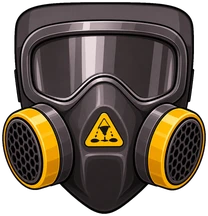
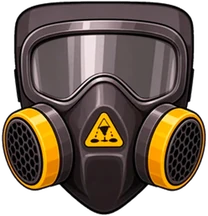
Shadows under the things (squashed from the base, slid from the light); no players strip over Пепе and the captures; the gas mask with see-through glass
Claude-Session: https://claude.ai/code/session_01XtpZhZabEYUcJEQKQgYpHe

diff --git a/src/app/screens.css b/src/app/screens.css
@@ -7639,17 +7639,18 @@ body.has-full .modal-back:not(.full):not(.page) { top: 0; }
   25% { transform: translate(530px, 1235px); opacity: 0.45; } 45% { transform: translate(300px, 1215px); opacity: 0.35; }
   50%, 55% { opacity: 0; transform: translate(260px, 1215px); } 57% { transform: translate(760px, 1215px); opacity: 0.2; }
   76% { transform: translate(530px, 1235px); opacity: 0.25; } 96% { transform: translate(300px, 1215px); opacity: 0.2; } 100% { transform: translate(260px, 1215px); opacity: 0; } }
-/* the shadows of the things: flipped down from the foot, skewed away from the light (the sun on the left → to the right),
-   long and faint low, short and dark high; the moon's are paler */
+/* the shadows of the things: the thing's own shape, black and see-through, squashed flat onto the floor from its base
+   (so it starts right under the thing) and slid away from the light — long to the right in the morning, short under it
+   at noon, long to the left in the evening; the moon's are paler */
 .fkr-shadow { animation-name: fkr-shadow; }
 @keyframes fkr-shadow {
-  0% { transform: scaleY(-0.5) skewX(-50deg); opacity: 0; }
-  5% { transform: scaleY(-0.55) skewX(-52deg); opacity: 0.42; } 15% { transform: scaleY(-0.38) skewX(-30deg); opacity: 0.5; }
-  25% { transform: scaleY(-0.26) skewX(0deg); opacity: 0.55; } 35% { transform: scaleY(-0.38) skewX(30deg); opacity: 0.5; }
-  45% { transform: scaleY(-0.55) skewX(52deg); opacity: 0.42; } 51% { transform: scaleY(-0.6) skewX(56deg); opacity: 0; }
-  54% { transform: scaleY(-0.5) skewX(-50deg); opacity: 0; } 58% { transform: scaleY(-0.5) skewX(-48deg); opacity: 0.28; }
-  76% { transform: scaleY(-0.3) skewX(0deg); opacity: 0.34; } 94% { transform: scaleY(-0.5) skewX(48deg); opacity: 0.28; }
-  100% { transform: scaleY(-0.55) skewX(52deg); opacity: 0; } }
+  0% { transform: scaleY(0.38) skewX(-60deg); opacity: 0; }
+  5% { transform: scaleY(0.38) skewX(-60deg); opacity: 0.55; } 15% { transform: scaleY(0.34) skewX(-40deg); opacity: 0.6; }
+  25% { transform: scaleY(0.28) skewX(0deg); opacity: 0.65; } 35% { transform: scaleY(0.34) skewX(40deg); opacity: 0.6; }
+  45% { transform: scaleY(0.38) skewX(60deg); opacity: 0.55; } 51% { transform: scaleY(0.4) skewX(64deg); opacity: 0; }
+  54% { transform: scaleY(0.38) skewX(-60deg); opacity: 0; } 58% { transform: scaleY(0.38) skewX(-56deg); opacity: 0.38; }
+  76% { transform: scaleY(0.3) skewX(0deg); opacity: 0.45; } 94% { transform: scaleY(0.38) skewX(56deg); opacity: 0.38; }
+  100% { transform: scaleY(0.38) skewX(60deg); opacity: 0; } }
 /* the things over the chair at home (layer "front"): the night on them by a filter, on the same clock as the tint */
 .fkr-live.fkr-front { animation: fkr-front-night var(--fkr-cycle) linear infinite; }
 @keyframes fkr-front-night { 0% { filter: brightness(0.42) saturate(0.6); } 5%, 45% { filter: none; } 49% { filter: sepia(0.25) saturate(1.2); }

diff --git a/src/content/updates.ts b/src/content/updates.ts
@@ -22,6 +22,8 @@ export const UPDATES: UpdateNote[] = [
     title: "Фартук Утилизатора",
     items: [
       { text: "Статуэтка CLOSE убрана из игры." },
+      { img: "/assets/items/mask-gas-utilizator.webp", text: "Противогаз Утилизатора: стекло стало прозрачным, видно глаза." },
+      { text: "Список игроков больше не висит над боем с Пепе и над клановыми захватами." },
       { img: "/assets/items/apron-utilizator.webp", text: "«Фартук Утилизатора» внизу теперь чуть покачивается." },
       { img: "/assets/updates/2026-11-22-coder.webp", text: "«Берлога кодера»: банки и чипсы на полу теперь поверх кресла, тени от вещей — чёткие и тёмные." },
       { img: "/assets/updates/2026-11-22-coder.webp", text: "В комнате Фокуса на мониторах сам пишется код, а на маленьком бегут логи сборки. Присмотрись к комментариям." },

diff --git a/src/client/shell.tsx b/src/client/shell.tsx
@@ -252,8 +252,8 @@ function Nav() {
     : state?.raidFight ? `/clans/raids/${state.raidFight.yard}/${state.raidFight.building}` : null;
   return (
     <nav className="nav">
-      {/* the leaders strip sits on top of the menu (not over a boss fight) */}
-      {!/^\/bosses\/[^/]+/.test(path) && <LeadersStrip />}
+      {/* the leaders strip sits on top of the menu — not over a fight: a boss, the event «Пепе», the clans' captures */}
+      {!/^\/(bosses\/[^/]+|event\/pepe|clans\/raids\/(?!bags)[^/]+)/.test(path) && <LeadersStrip />}
       {TABS.map((t) => (
         // a member's Clans tab leads straight to the own clan (no flash of the clan list);
         // a running fight (a boss or a «Ходки» building): the Bosses tab leads straight into it (from the fight a second tap opens the list)

diff --git a/src/client/preload.ts b/src/client/preload.ts
@@ -9,7 +9,7 @@ import { ASSET_FILES } from "./asset-manifest.ts";
 import { ROOM_BACKDROP, ROOM_BG } from "../content/home-scene.ts";
 
 /** cache-busting versions of redrawn art (bump when the picture changes) */
-export const ART_VER = { heroPart: 26, hair: 8, wear: 32, items: 48, pepe: 2, tattoo: 22, monitor: 2, chair: 10, shop: 3 } as const;
+export const ART_VER = { heroPart: 26, hair: 8, wear: 33, items: 48, pepe: 2, tattoo: 22, monitor: 2, chair: 10, shop: 3 } as const;
 
 /** the URL a screen really requests for a file from the manifest */
 export function usedUrl(path: string): string {
